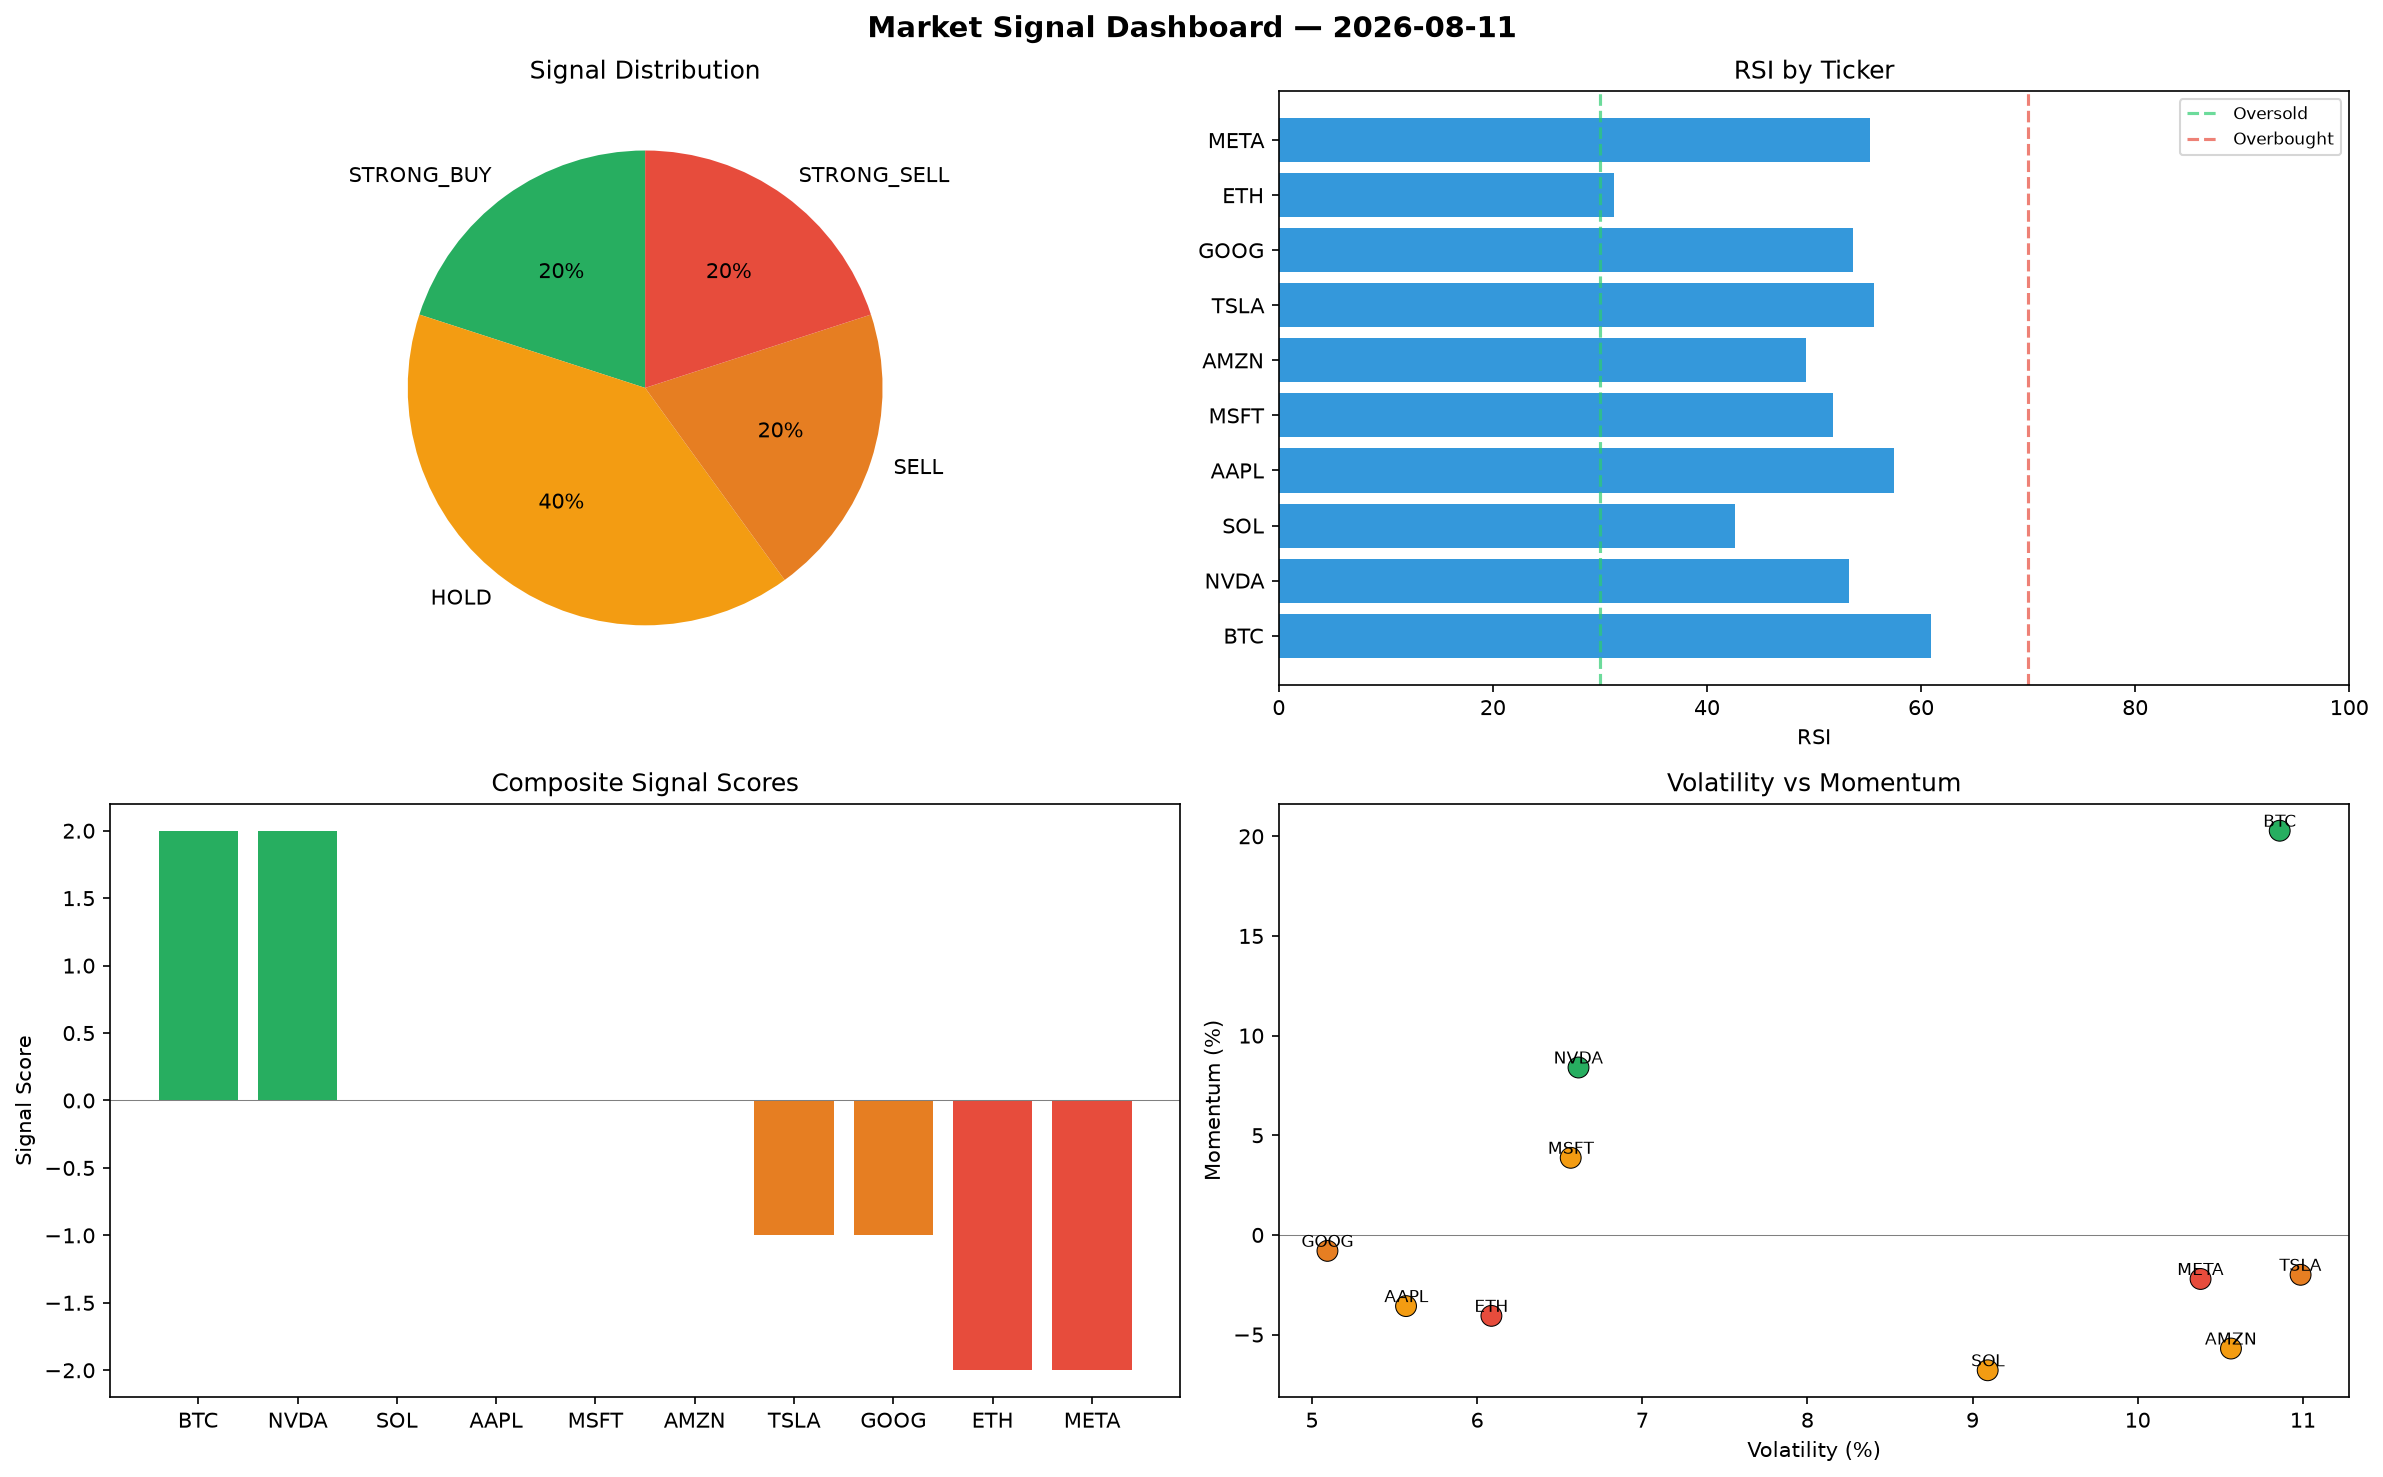
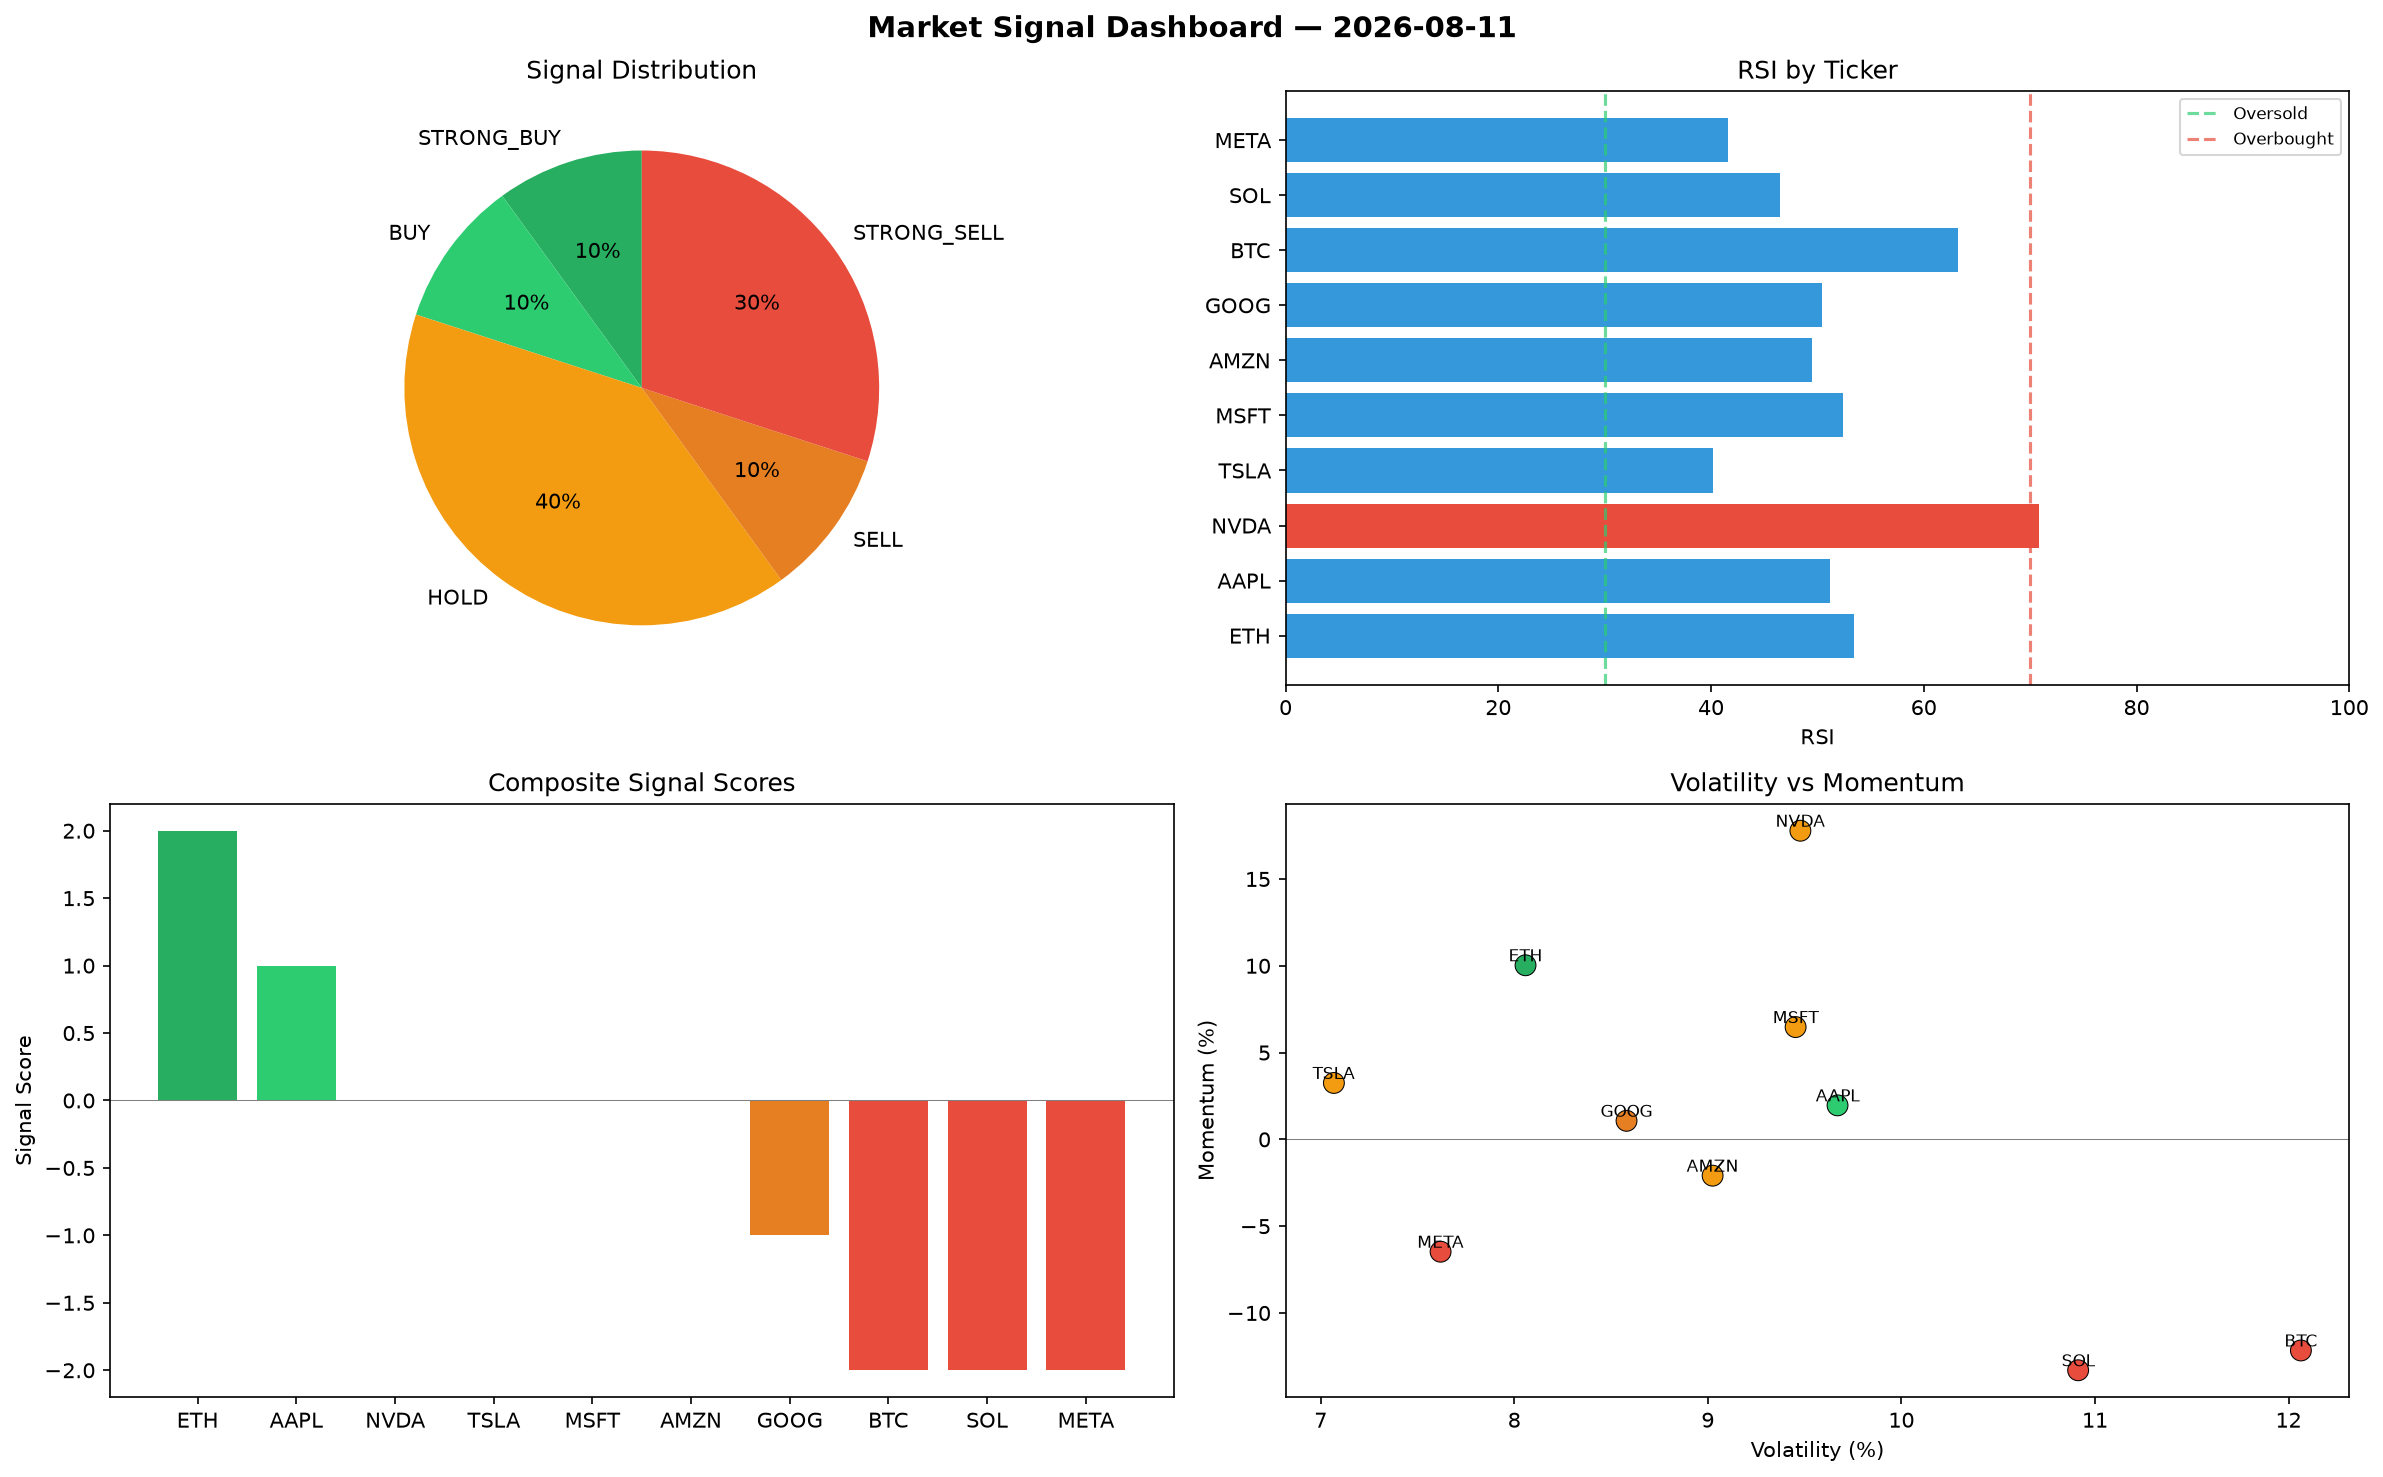
automated-bots: market signals 2026-08-11T15:29

diff --git a/logs/2026-08-11.md b/logs/2026-08-11.md
@@ -1,6 +1,6 @@
 # Market Signal Report — 2026-08-11
 
-**Run ID:** `a43660305e` | **Buy:** 2 | **Sell:** 4 | **Hold:** 4
+**Run ID:** `3197c813d0` | **Buy:** 2 | **Sell:** 4 | **Hold:** 4
 
 ![Dashboard](2026-08-11_dashboard.png)
 
@@ -8,28 +8,28 @@
 
 | Ticker | Price | Signal | Score | RSI | Momentum | Confidence |
 |--------|-------|--------|-------|-----|----------|------------|
-| BTC | $2291.01 | **STRONG_BUY** | 2 | 60.89 | 0.2028 | 0.5 |
-| NVDA | $4206.29 | **STRONG_BUY** | 2 | 53.3 | 0.084 | 0.5 |
-| SOL | $5093.42 | **HOLD** | 0 | 42.62 | -0.0679 | 0.0 |
-| AAPL | $3900.8 | **HOLD** | 0 | 57.5 | -0.0357 | 0.0 |
-| MSFT | $904.72 | **HOLD** | 0 | 51.73 | 0.0387 | 0.0 |
-| AMZN | $4449.49 | **HOLD** | 0 | 49.23 | -0.057 | 0.0 |
-| TSLA | $1039.22 | **SELL** | -1 | 55.58 | -0.02 | 0.25 |
-| GOOG | $1056.12 | **SELL** | -1 | 53.64 | -0.008 | 0.25 |
-| ETH | $2456.99 | **STRONG_SELL** | -2 | 31.31 | -0.0406 | 0.5 |
-| META | $4433.39 | **STRONG_SELL** | -2 | 55.19 | -0.0221 | 0.5 |
+| ETH | $2708.39 | **STRONG_BUY** | 2 | 53.46 | 0.1003 | 0.5 |
+| AAPL | $1665.09 | **BUY** | 1 | 51.16 | 0.0196 | 0.25 |
+| NVDA | $1906.7 | **HOLD** | 0 | 70.83 | 0.1778 | 0.0 |
+| TSLA | $1437.45 | **HOLD** | 0 | 40.18 | 0.0325 | 0.0 |
+| MSFT | $613.11 | **HOLD** | 0 | 52.36 | 0.0647 | 0.0 |
+| AMZN | $654.67 | **HOLD** | 0 | 49.52 | -0.0209 | 0.0 |
+| GOOG | $1575.59 | **SELL** | -1 | 50.44 | 0.0107 | 0.25 |
+| BTC | $4503.25 | **STRONG_SELL** | -2 | 63.24 | -0.1216 | 0.5 |
+| SOL | $2739.99 | **STRONG_SELL** | -2 | 46.52 | -0.133 | 0.5 |
+| META | $981.57 | **STRONG_SELL** | -2 | 41.63 | -0.0647 | 0.5 |
 
 ## Delta vs Yesterday
 
 | Ticker | Today | Yesterday | Price Change | Signal Changed |
 |--------|-------|-----------|-------------|----------------|
-| BTC | STRONG_BUY | HOLD | 📉 -26.97% | ⚠ YES |
-| NVDA | STRONG_BUY | BUY | 📈 190.21% | ⚠ YES |
-| SOL | HOLD | HOLD | 📉 -7.83% | — |
-| AAPL | HOLD | STRONG_SELL | 📈 187.78% | ⚠ YES |
-| MSFT | HOLD | STRONG_SELL | 📈 146.94% | ⚠ YES |
-| AMZN | HOLD | SELL | 📈 25.86% | ⚠ YES |
-| TSLA | SELL | STRONG_BUY | 📉 -76.64% | ⚠ YES |
-| GOOG | SELL | STRONG_SELL | 📉 -32.72% | ⚠ YES |
-| ETH | STRONG_SELL | STRONG_SELL | 📉 -22.52% | — |
-| META | STRONG_SELL | STRONG_BUY | 📈 49.61% | ⚠ YES |
+| ETH | STRONG_BUY | STRONG_SELL | 📉 -14.59% | ⚠ YES |
+| AAPL | BUY | STRONG_SELL | 📈 22.84% | ⚠ YES |
+| NVDA | HOLD | BUY | 📈 31.55% | ⚠ YES |
+| TSLA | HOLD | STRONG_BUY | 📉 -67.69% | ⚠ YES |
+| MSFT | HOLD | STRONG_SELL | 📈 67.35% | ⚠ YES |
+| AMZN | HOLD | SELL | 📉 -81.48% | ⚠ YES |
+| GOOG | SELL | STRONG_SELL | 📈 0.37% | ⚠ YES |
+| BTC | STRONG_SELL | HOLD | 📈 43.56% | ⚠ YES |
+| SOL | STRONG_SELL | HOLD | 📉 -50.42% | ⚠ YES |
+| META | STRONG_SELL | STRONG_BUY | 📉 -66.88% | ⚠ YES |
